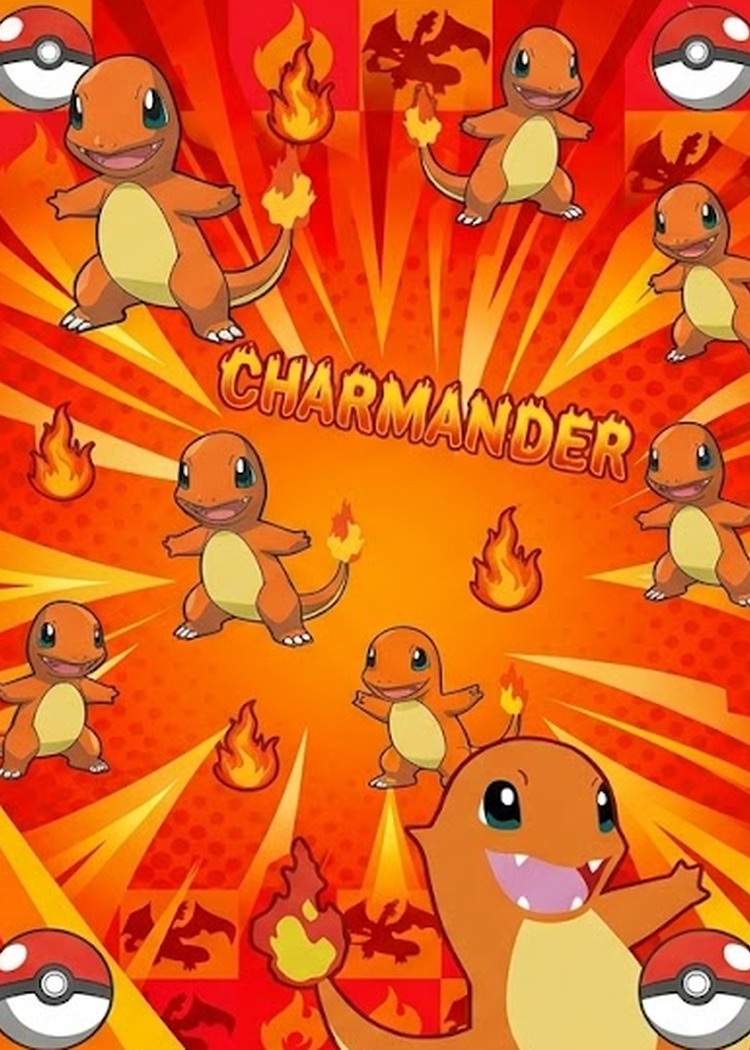
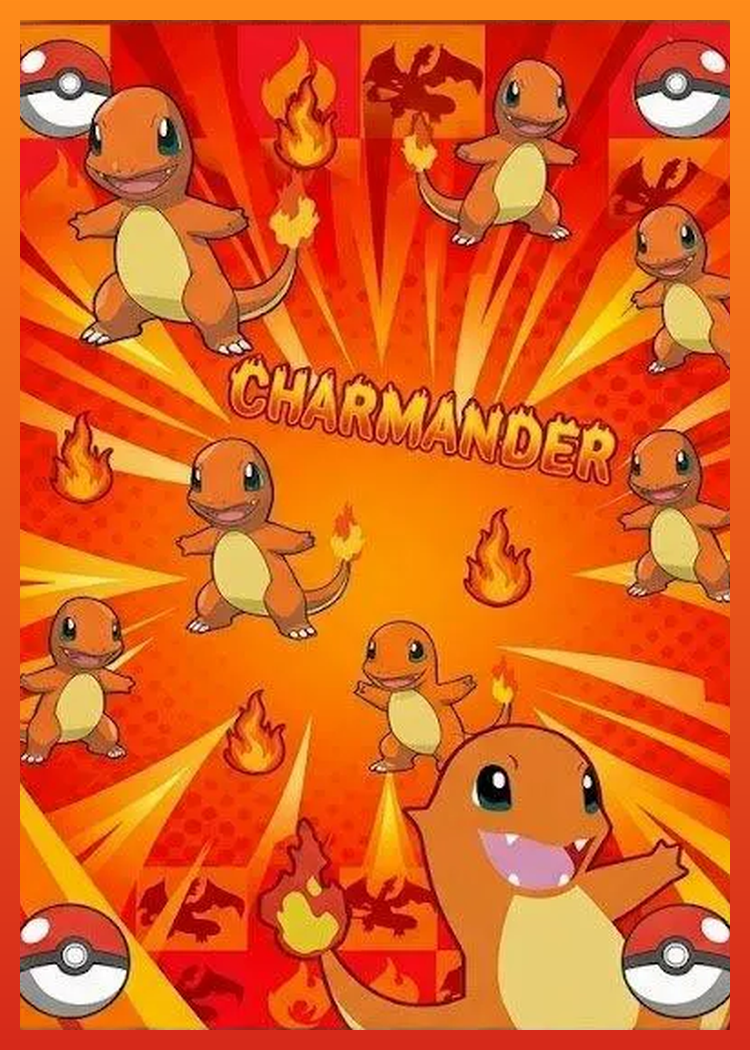
Replace Charmander/Squirtle/Bulbasaur with v2 art + type-colored borders
User supplied "version 2" source images for these 3 (cleaner black-
letterboxed crops, easier to isolate than the original checkerboard
versions) and asked for a type-colored gradient border framing each --
both to match the Pokemon's type and to mask any small residual edge
imperfections from the crop, same idea as Pokebola Morada's uniform
border fix. Same 20px border, 750x1050 canvas as every other protector:
- Charmander: orange-to-red vertical gradient (fuego)
- Squirtle: light-blue-to-blue vertical gradient (agua)
- Bulbasaur: light-green-to-green vertical gradient (planta)

Note: the Squirtle 2 source has a real internal defect (a soft black
smudge over the artwork, not at the edge) -- the fit-cover crop happened
to land past it in the final result, verified with a dark-pixel scan
(only legitimate line art -- eyes, pokeball rings -- remains), but this
wasn't something a border could have masked either way since it isn't
an edge artifact.

Bumped all 3 to ?v=3 for cache-busting.

diff --git a/ui.js b/ui.js
@@ -89,9 +89,9 @@ var CARD_BACK_OPTIONS = [
   { id: 'protector_fantasma', name: 'Fantasma', img: 'Cartas/Protector_Fantasma.png?v=2', cost: PROTECTOR_COST },
   { id: 'protector_perona', name: 'Perona', img: 'Cartas/Protector_Perona.png?v=2', cost: PROTECTOR_COST },
   { id: 'protector_sasuke', name: 'Sasuke', img: 'Cartas/Protector_Sasuke.png?v=2', cost: PROTECTOR_COST },
-  { id: 'protector_squirtle', name: 'Squirtle', img: 'Cartas/Protector_Squirtle.png?v=2', cost: PROTECTOR_COST },
-  { id: 'protector_charmander', name: 'Charmander', img: 'Cartas/Protector_Charmander.png?v=2', cost: PROTECTOR_COST },
-  { id: 'protector_bulbasaur', name: 'Bulbasaur', img: 'Cartas/Protector_Bulbasaur.png?v=2', cost: PROTECTOR_COST },
+  { id: 'protector_squirtle', name: 'Squirtle', img: 'Cartas/Protector_Squirtle.png?v=3', cost: PROTECTOR_COST },
+  { id: 'protector_charmander', name: 'Charmander', img: 'Cartas/Protector_Charmander.png?v=3', cost: PROTECTOR_COST },
+  { id: 'protector_bulbasaur', name: 'Bulbasaur', img: 'Cartas/Protector_Bulbasaur.png?v=3', cost: PROTECTOR_COST },
   { id: 'protector_messi', name: 'Messi', img: 'Cartas/Protector_Messi.png?v=2', cost: PROTECTOR_COST },
   { id: 'protector_ronaldo', name: 'Ronaldo', img: 'Cartas/Protector_Ronaldo.png?v=2', cost: PROTECTOR_COST },
   { id: 'protector_pikachu_sorprendido', name: 'Pikachu Sorprendido', img: 'Cartas/Protector_PikachuSorprendido.png?v=2', cost: PROTECTOR_COST },
